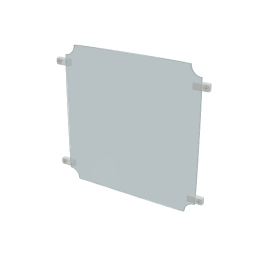
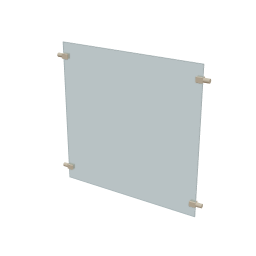
Use square corners for clear panels and refresh thumbnails

diff --git a/src/engine/confirmedComponentMeshes.js b/src/engine/confirmedComponentMeshes.js
@@ -14,6 +14,7 @@ import { geometry } from './catalog.js';
 import { confirmedFrame, curvePoint, worldToLocal, rungPositions } from './confirmedComponentModel.js';
 const font=new FontLoader().parse(fontData);
 const colors=['#e64343','#ffcf3d','#f09cbc','#74b166','#318dde','#9c75cb'];
+const clearPanelFeatures=new Set(['acrylic','acrylic_holes','capsule']);
 const vec=p=>new THREE.Vector3(...p);
 const resolveColor=color=>COLOR_HEX[color] || color;
 
@@ -84,6 +85,7 @@ function factory(scene,frame) {
 function outline(w,h,feature) {
   const shape=new THREE.Shape(),x=w/2,y=h/2,n=2.7;
   if(feature==='sector') {shape.moveTo(0,0);shape.lineTo(40,0);shape.absarc(0,0,40,0,Math.PI/2,false);shape.lineTo(0,0);return shape;}
+  if(clearPanelFeatures.has(feature)) {shape.moveTo(-x,-y);shape.lineTo(x,-y);shape.lineTo(x,y);shape.lineTo(-x,y);shape.closePath();return shape;}
   shape.moveTo(-x+n,-y);shape.lineTo(x-n,-y);shape.absarc(x,-y,n,Math.PI,Math.PI/2,true);
   shape.lineTo(x,y-n);shape.absarc(x,y,n,-Math.PI/2,-Math.PI,true);
   if(feature==='castle') {
@@ -92,7 +94,7 @@ function outline(w,h,feature) {
   shape.lineTo(-x+n,y);shape.absarc(-x,y,n,0,-Math.PI/2,true);shape.lineTo(-x,-y+n);shape.absarc(-x,-y,n,Math.PI/2,0,true);shape.closePath();return shape;
 }
 function plateGeometry(w,h,feature) {
-  const depth=geometry().panelThickness,bevel=feature==='acrylic'?0:Math.min(0.06,depth/4);
+  const depth=geometry().panelThickness,bevel=clearPanelFeatures.has(feature)?0:Math.min(0.06,depth/4);
   const shape=outline(w,h,feature);
   if(feature==='holes' || feature==='acrylic_holes')for(const x of [-w*0.28,0,w*0.28])for(const y of [-h*0.28,0,h*0.28])shape.holes.push(new THREE.Path().absarc(x,y,3.2,0,Math.PI*2,true));
   if(feature==='honeycomb')for(let row=-7;row<=7;row++)for(let col=-7;col<=7;col++) {
@@ -179,7 +181,7 @@ function panelMeshes(scene,model,part,spec,frame) {
   const inset=hasInsetScrews(part),edgeInset=inset?INSET_PANEL_EDGE_INSET:1.5;
   const f=factory(scene,frame),w=spec.width-2*edgeInset,h=spec.height-2*edgeInset,feature=spec.feature;
   const color=confirmedColor(part)||'#398ddb';
-  const clear=['acrylic','acrylic_holes','capsule'].includes(feature);
+  const clear=clearPanelFeatures.has(feature);
   if(part.params?.screwAxis && !hasInsetScrews(part) && feature!=='basketball')panelScrews(f,model,part,frame);
   if(standard) {
     // 网格加载期间及低画质使用同样外宽和管顶高度，避免加载前后板面跳变。
@@ -193,7 +195,7 @@ function panelMeshes(scene,model,part,spec,frame) {
   if(clear)f.meshes.push(...insetScrewMeshes(scene,model,part,frame));
   if(clear){
     const points=outline(w,h,feature).getPoints(64).map(p=>[p.x,p.y,inset?0:2.2]);
-    f.tube('acrylic-polished-edge',points,0.065,'#bdcdd1','glass-edge');
+    for(let i=1;i<points.length;i++)f.tube('acrylic-polished-edge',[points[i-1],points[i]],0.065,'#bdcdd1','glass-edge');
     if(feature==='acrylic_holes')for(const x of [-w*.28,0,w*.28])for(const y of [-h*.28,0,h*.28])f.torus('acrylic-hole-edge',3.2,0.06,'#beced3',[x,y,inset?0:2.2],null,'glass-edge');
   }
   if(feature==='capsule') {
